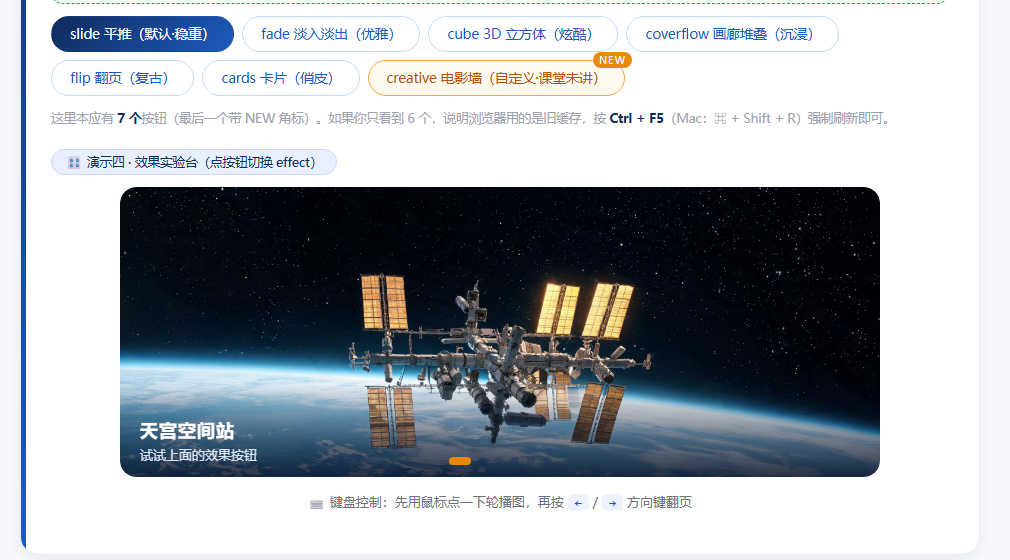
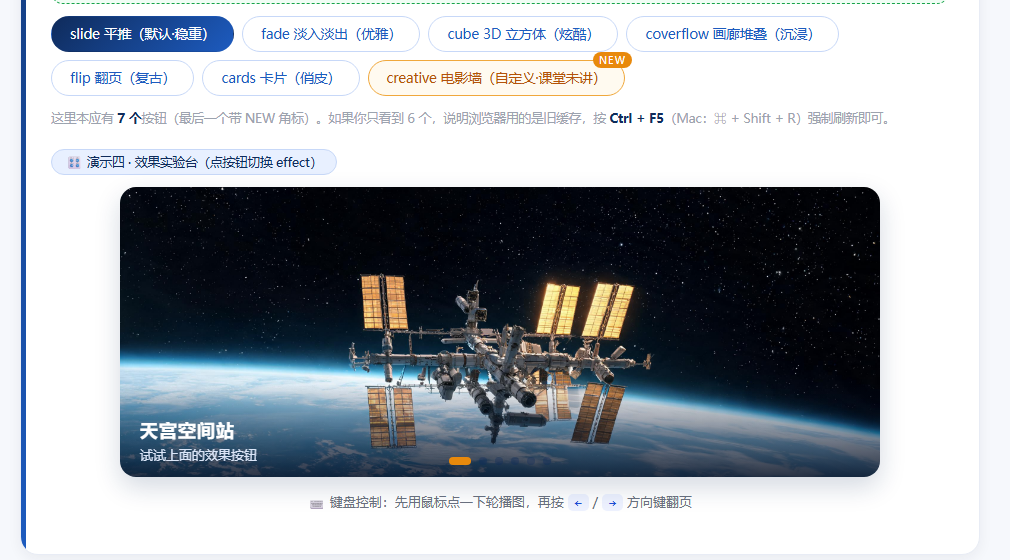
提交课堂实践：修复 Swiper 演示四多次切换效果后容器高度被撑大的问题，恢复 3D 效果溢出空间并更新截图

Changed region(s): [[0.1228, 0.85, 0.8594, 0.8804]]

diff --git a/24002120314 樊博/swiper-task.html b/24002120314 樊博/swiper-task.html
@@ -54,8 +54,8 @@
   /* 演示台 */
   .wy-demo{margin:18px 0 6px}
   .wy-demo .wy-demo-tag{display:inline-block;font-size:12.5px;color:#0f2b5b;background:#e8f0ff;border:1px solid #c7d8f8;border-radius:999px;padding:4px 14px;margin-bottom:12px}
-  .wy-swiper{width:100%;max-width:760px;margin:0 auto;border-radius:16px;overflow:hidden}
-  .wy-swiper .swiper{border-radius:16px;box-shadow:0 10px 26px rgba(15,43,91,.18);overflow:hidden}
+  .wy-swiper{width:100%;max-width:760px;margin:0 auto;border-radius:16px;overflow:visible!important}
+  .wy-swiper .swiper{border-radius:16px;box-shadow:0 10px 26px rgba(15,43,91,.18)}
   .wy-swiper .swiper-slide{position:relative;height:290px}
   .wy-swiper .swiper-slide img{width:100%;height:100%;object-fit:cover;display:block}
   .wy-swiper .wy-cap{
@@ -315,7 +315,10 @@
     }
     return options;
   }
-  var wySw4 = new Swiper('#wySw4', wySw4Options('slide'));
+  var wySw4El = document.querySelector('#wySw4');
+  // 功能：备份演示四的原始 HTML 结构，每次切换效果前用它还原，避免上一轮生成的副本幻灯片和行内样式残留
+  var wySw4HTML = wySw4El.innerHTML;
+  var wySw4 = new Swiper(wySw4El, wySw4Options('slide'));
 
   // ── 任务 4 进阶：补全按钮点击事件，实现七种效果实时切换 ──
   // 提示 1：动态换 effect 只改参数是无效的，必须销毁旧实例再重建（destroy + new）
@@ -333,8 +336,13 @@
       // 销毁旧的 wySw4 实例
       wySw4.destroy(true, true);
 
+      // 功能：还原容器结构与行内样式（否则多次切换会残留副本幻灯片，轮播高度被撑大）
+      wySw4El.className = 'swiper';
+      wySw4El.removeAttribute('style');
+      wySw4El.innerHTML = wySw4HTML;
+
       // 用新 effect 重建实例（把其它配置原样保留）
-      wySw4 = new Swiper('#wySw4', wySw4Options(btn.dataset.fx));
+      wySw4 = new Swiper(wySw4El, wySw4Options(btn.dataset.fx));
     });
   });
 </script>
